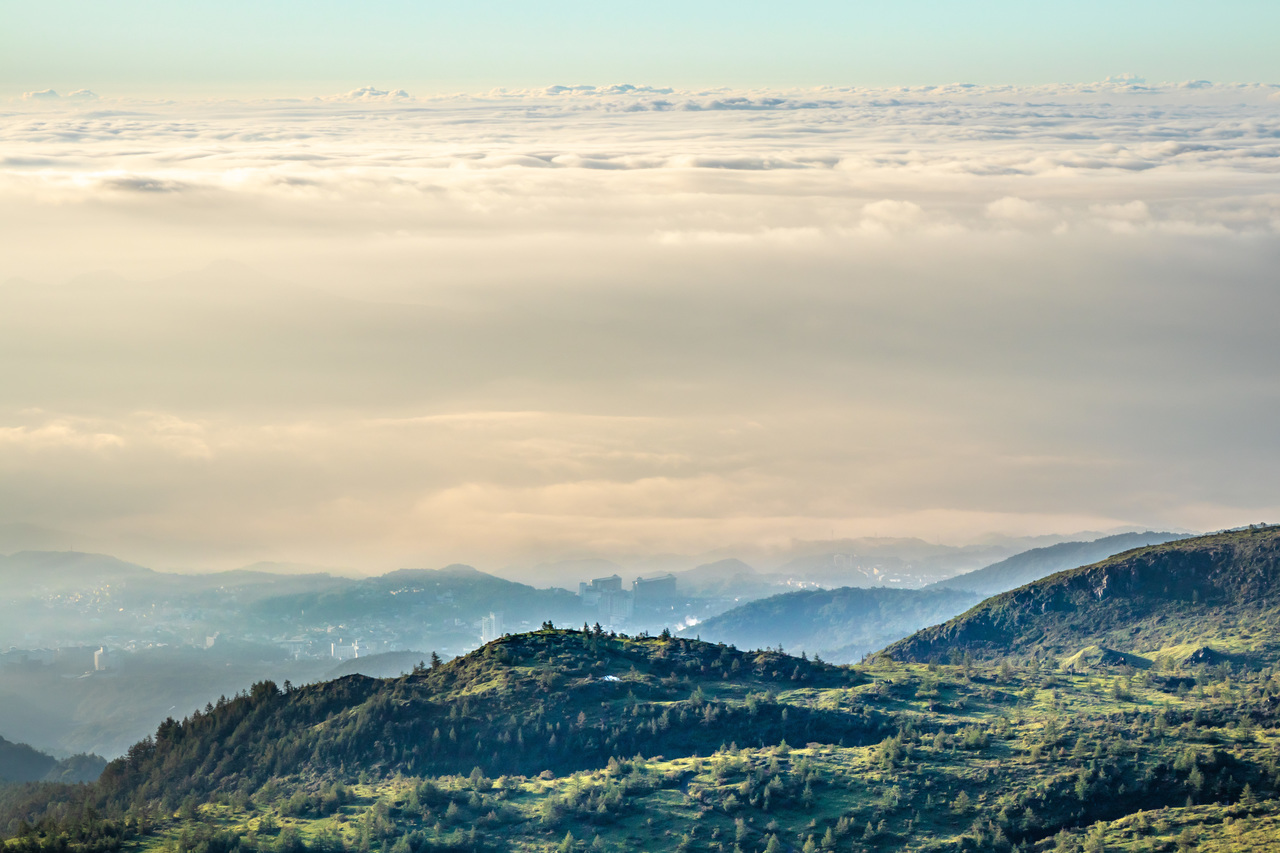
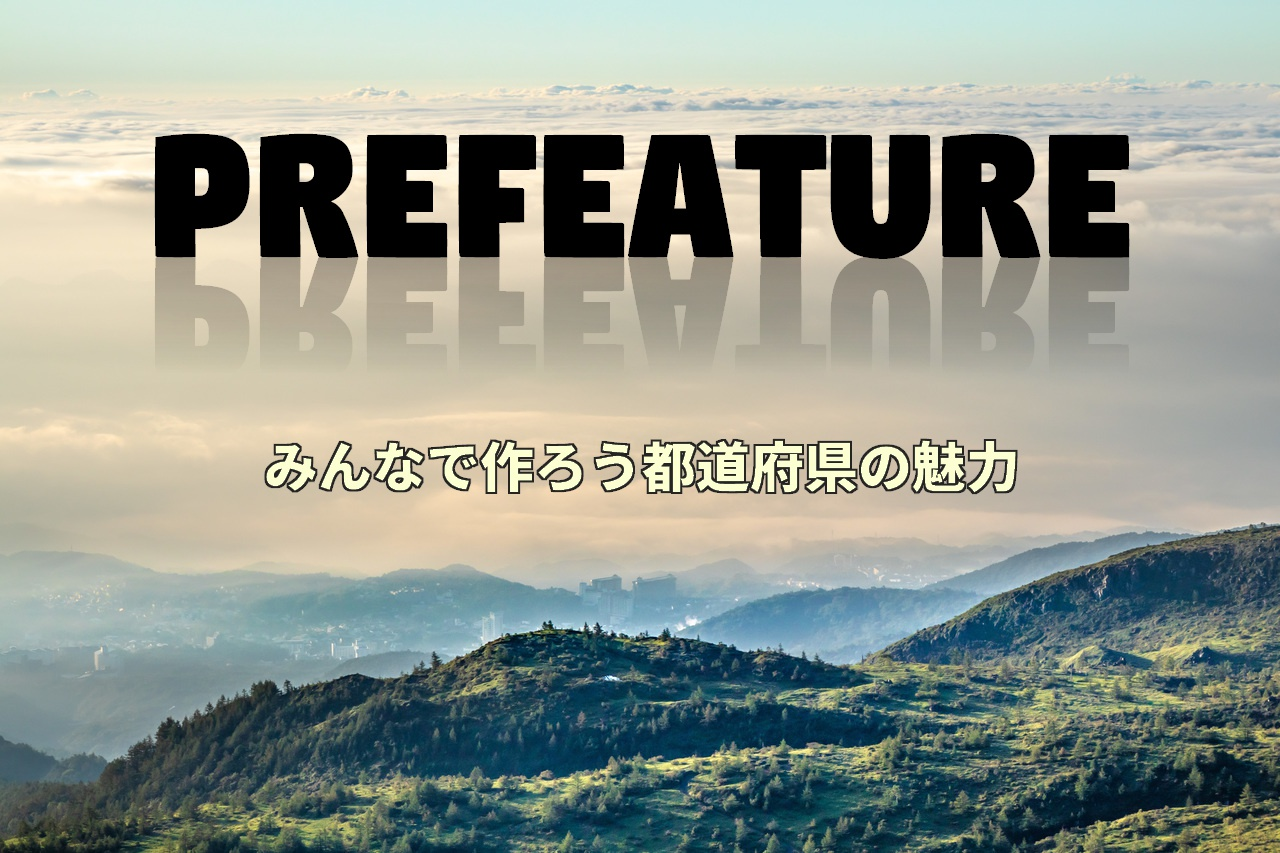
modify image

Changed region(s): [[0.0938, 0.1524, 0.9062, 0.3962], [0.1875, 0.5182, 0.8125, 0.5791]]

diff --git a/resources/views/welcome.blade.php b/resources/views/welcome.blade.php
@@ -7,18 +7,23 @@
             </div>
         </div> --}}
         
-        <img src="{{ secure_asset('img/top1.jpg') }}" alt="都道府県風景画像" width="1000" style="display: block; margin: auto;">
+        <img src="{{ secure_asset('img/top1.jpg') }}" alt="PREFEATUREトップ画像1" width="1000" style="display: block; margin: auto;">
+        <h6 class="text-center">渋峠の雲海 （© Koichi_Hayakawa <a href="https://creativecommons.org/licenses/by/4.0/" target="_blank">クリエイティブ・コモンズ・ライセンス（表示4.0 国際）</a>）を改変して作成</h6>
         
         <div class="container container-m">
   <div class="row">
     
     <div class="col-md-6  img-hidden">
         
-      <img src="{{ secure_asset('img/top2.jpg') }}" alt=TechAcademy KITCHEN" width="500"> 
+      <img src="{{ secure_asset('img/top2.jpg') }}" alt=PREFEATUREトップ画像2" width="500"> 
+       <h6 class="text-center">渋峠の雲海 © Koichi_Hayakawa</h6>
+        <h6 class="text-center"><a href="https://creativecommons.org/licenses/by/4.0/" target="_blank">クリエイティブ・コモンズ・ライセンス（表示4.0 国際）</a></h6>
+        
     </div>
     <div class="col-md-5">
     <div class="text-center">
       <h3>都道府県の魅力を投稿しよう！</h3>
+      <h3>都道府県の魅力を投稿しよう！aaaaaaaaaaaaaaaaaaaaaaaaaaaaaaaaaaaaaaaaaaaaaaaaaaaaaaaaaaaaaaaaaa</h3>
       </div>
     </div>
   </div>

diff --git a/resources/views/commons/navbar.blade.php b/resources/views/commons/navbar.blade.php
@@ -1,7 +1,7 @@
 <header class="mb-4">
     <nav class="navbar navbar-expand-sm navbar-dark bg-info" style="background: linear-gradient(180deg, #20bdff, #5433ff);">
         {{-- トップページへのリンク --}}
-        <a class="navbar-brand" href="/"><div class="test"><img src="{{ secure_asset('img/logo.png') }}" alt=TechAcademy KITCHEN" class="d-inline-block align-bottom"> みんなで作ろう都道府県の魅力</div></a>
+        <a class="navbar-brand" href="/"><div class="test"><img src="{{ secure_asset('img/logo.png') }}" alt=TechAcademy KITCHEN" class="d-inline-block align-bottom"> 　みんなで作ろう都道府県の魅力</div></a>
 {{--
         <button type="button" class="navbar-toggler" data-toggle="collapse" data-target="#nav-bar">
             <span class="navbar-toggler-icon"></span>

diff --git a/resources/views/prefposts/show.blade.php b/resources/views/prefposts/show.blade.php
@@ -381,7 +381,18 @@ requestAnimationFrame(tick);
 
         
 {{--        <h1 class="text-center">{!! nl2br(e($pref->name)) !!}</h1> --}}
-    <br>
+    <br><br><br>
+    
+    <div style="font-size: 20px;">
+        <table class="table table-striped table-bordered">
+            <tr>
+                <th class="text-center">投稿一覧</th>
+            </tr>
+        </table>
+    </div>
+    
+    
+    
          <hr class="style-six" />
         
     
@@ -396,7 +407,10 @@ requestAnimationFrame(tick);
 } ?>
     
         @if (count($prefposts) == 0)
-        まだ投稿がありません。</p>
+        <div class="text-center">
+        まだ投稿がありません。
+        </div>
+        <hr class="style-six" />
         @endif
         
         @if (count($prefposts) > 0)

diff --git a/resources/views/layouts/app.blade.php b/resources/views/layouts/app.blade.php
@@ -2,7 +2,7 @@
 <html lang="ja">
     <head>
         <meta charset="utf-8">
-        <title>Prefeature</title>
+        <title>PREFEATURE</title>
         <meta name="viewport" content="width=device-width, initial-scale=1, shrink-to-fit=no">
         <link rel="stylesheet" href="https://stackpath.bootstrapcdn.com/bootstrap/4.2.1/css/bootstrap.min.css">
     </head>
@@ -21,7 +21,7 @@
  </div>
   <!--ここからフッター-->
             <footer>
-                <small>&copy; 2021 Prefeature All right reserved.</small>
+                <small>&copy; 2021 PREFEATURE All right reserved.</small>
             </footer>
             <!--フッターここまで-->
 

diff --git a/resources/lang/ja/validation.php b/resources/lang/ja/validation.php
@@ -82,7 +82,7 @@ return [
         'numeric' => ':attribute は :max 以下のみ有効です',
         'file'    => ':attribute は :max KB以下のファイルのみ有効です',
         /* 'string'  => ':attribute は :max 文字以下のみ有効です', */
-        'string'  => '入力する文字数は:max文字以下でお願いします。',
+        'string'  => '投稿する文字数は:max文字以下でお願いします。',
         'array'   => ':attribute は :max 個以下のみ有効です',
     ],
     'mimes'                => ':attribute は :values タイプのみ有効です',

diff --git a/resources/views/prefposts/create.blade.php b/resources/views/prefposts/create.blade.php
@@ -22,7 +22,7 @@
         {!! link_to_route('pref.show', '投稿せずに'.$pref->name.'の魅力を見る', [$pref->id], ['class' => 'nav-link']) !!}
     </div>
 {!! Form::close() !!}
-<br><br>
+<br><br><br>
 
         @include('commons.preflist')
 @endsection
